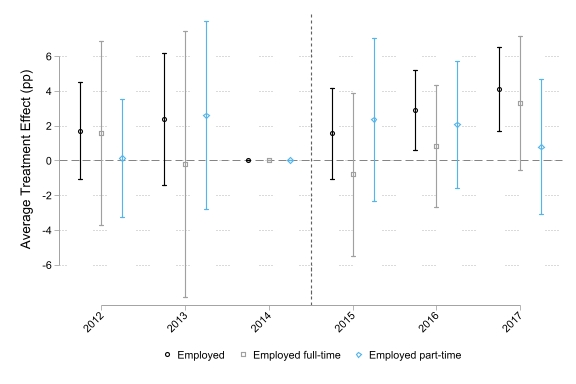
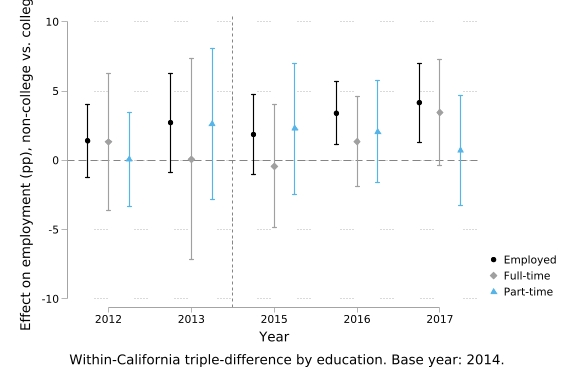
Phase 0 runs: parallel worker Mata fix, HPC scripts, regenerated outputs
Fix: Stata's parallel transfers ado-programs via prog() but not Mata
functions, so every appE worker crashed at ri_compute_pvalues() not
found (r(3499)) after finishing its RI permutations. run_inference_task
now compiles 04_appE_inference_programs.do in each worker session and
fail-fasts if fp_vectorized_bootstrap()/ri_compute_pvalues() are
missing. Battery rerunning as SLURM job 17006108.

Add code/hpc/ stage scripts (stage1: data rebuild + tables; stage2:
fixed appE inference battery) and sbatch wrappers.

Regenerated outputs from today's stage 1 run on the rebuilt working
file: quad-diff tables (employment ~+1.8***, full-time ~-0.1 n.s.,
part-time ~+1.9***), Oster bounds, and education-stratified tables from
the reconstructed 03_tab_main_educ.do (N and pre-period means match the
committed versions exactly; ATE 2.1 vs 1.8 and lower adj. R2 — original
spec likely differed, flagged in PLAN.md as an author decision).

Ignore Stata parallel temp files (__pll*) and code/logs/.

diff --git a/results/tables/tab_main_educ_1.tex b/results/tables/tab_main_educ_1.tex
@@ -1,9 +1,9 @@
 \\ \midrule
 \addlinespace
-ATE                 &         1.8\sym{*}  &         1.7\sym{*}  &         1.5         \\
-                    &       (0.9)         &       (0.9)         &       (1.0)         \\
+ATE                 &         2.1\sym{**} &         2.0\sym{**} &         1.8         \\
+                    &       (1.0)         &       (1.0)         &       (1.1)         \\
 \addlinespace
   Observations      &     132,910         &     132,910         &     132,910         \\
-  Adj. R-Square     &       0.099         &       0.104         &       0.119         \\
+  Adj. R-Square     &       0.063         &       0.069         &       0.086         \\
   Treated group mean in pre-period&        71.6         &        71.6         &        71.6         \\
-  Implied employment effect&      32,852         &      32,421         &      28,004         \\
+  Implied employment effect&      38,329         &      37,558         &      33,311         \\

diff --git a/results/tables/tab_main_educ_2.tex b/results/tables/tab_main_educ_2.tex
@@ -1,9 +1,9 @@
 \\ \midrule
 \addlinespace
-ATE                 &         1.1         &         1.0         &         0.7         \\
+ATE                 &         1.5         &         1.4         &         1.0         \\
                     &       (1.2)         &       (1.2)         &       (1.2)         \\
 \addlinespace
   Observations      &     132,910         &     132,910         &     132,910         \\
-  Adj. R-Square     &       0.084         &       0.090         &       0.118         \\
+  Adj. R-Square     &       0.067         &       0.074         &       0.103         \\
   Treated group mean in pre-period&        51.3         &        51.3         &        51.3         \\
-  Implied employment effect&      20,721         &      19,094         &      12,917         \\
+  Implied employment effect&      27,472         &      25,552         &      19,051         \\

diff --git a/results/tables/tab_main_educ_3.tex b/results/tables/tab_main_educ_3.tex
@@ -1,9 +1,9 @@
 \\ \midrule
 \addlinespace
-ATE                 &         0.7         &         0.7         &         0.8         \\
+ATE                 &         0.6         &         0.6         &         0.8         \\
                     &       (0.9)         &       (0.8)         &       (0.9)         \\
 \addlinespace
   Observations      &     132,910         &     132,910         &     132,910         \\
-  Adj. R-Square     &       0.008         &       0.010         &       0.030         \\
+  Adj. R-Square     &       0.007         &       0.010         &       0.030         \\
   Treated group mean in pre-period&        20.4         &        20.4         &        20.4         \\
-  Implied employment effect&      12,131         &      13,327         &      15,088         \\
+  Implied employment effect&      10,856         &      12,006         &      14,260         \\

diff --git a/results/tables/tab_quad_diff_1.tex b/results/tables/tab_quad_diff_1.tex
@@ -1,0 +1,9 @@
+\\ \midrule
+\addlinespace
+Quadruple-Diff ATE  &         1.8\sym{***}&         1.6\sym{***}\\
+                    &       (0.4)         &       (0.4)         \\
+\addlinespace
+  Observations      &     761,195         &     761,195         \\
+  Adj. R-Square     &       0.063         &       0.078         \\
+  Treated group mean in pre-period&        71.6         &        71.6         \\
+  Implied employment effect&         266         &         232         \\

diff --git a/results/tables/tab_quad_diff_2.tex b/results/tables/tab_quad_diff_2.tex
@@ -1,0 +1,9 @@
+\\ \midrule
+\addlinespace
+Quadruple-Diff ATE  &        -0.1         &        -0.2         \\
+                    &       (0.7)         &       (0.7)         \\
+\addlinespace
+  Observations      &     761,195         &     761,195         \\
+  Adj. R-Square     &       0.079         &       0.103         \\
+  Treated group mean in pre-period&        51.3         &        51.3         \\
+  Implied employment effect&         -12         &         -26         \\

diff --git a/results/tables/tab_quad_diff_3.tex b/results/tables/tab_quad_diff_3.tex
@@ -1,0 +1,9 @@
+\\ \midrule
+\addlinespace
+Quadruple-Diff ATE  &         1.9\sym{***}&         1.8\sym{***}\\
+                    &       (0.6)         &       (0.6)         \\
+\addlinespace
+  Observations      &     761,195         &     761,195         \\
+  Adj. R-Square     &       0.013         &       0.035         \\
+  Treated group mean in pre-period&        20.4         &        20.4         \\
+  Implied employment effect&         277         &         258         \\

diff --git a/results/tables/tab_oster_bounds.tex b/results/tables/tab_oster_bounds.tex
@@ -1,0 +1,5 @@
+Employed &     0.828 &    -0.335 &     0.009 &     0.074 &     -0.10 &    -0.730 &     -0.33 &    -1.653 \\
+Full-time &    -2.223 &    -4.077 &     0.008 &     0.067 &     -0.75 &    -4.705 &     -2.49 &    -6.172 \\
+Part-time &     3.051 &     3.742 &     0.003 &     0.027 &     -1.84 &     3.977 &     -6.14 &     4.525 \\
+\midrule
+Earnings ($) &    -598.8 &   -1509.4 &     0.011 &     0.099 &     -0.56 &   -1817.7 &     -1.87 &   -2536.9 \\

diff --git a/results/tables/tab_quad_diff_earn.tex b/results/tables/tab_quad_diff_earn.tex
@@ -1,0 +1,8 @@
+\\ \midrule
+\addlinespace
+Quadruple-Diff ATE  &      -410.9         &      -256.0         \\
+                    &     (463.7)         &     (416.5)         \\
+\addlinespace
+  Observations      &     761,195         &     761,195         \\
+  Adj. R-Square     &       0.156         &       0.212         \\
+  Treated group mean in pre-period&      21,324         &      21,324         \\

diff --git a/results/tables/tab_quad_diff_end.tex b/results/tables/tab_quad_diff_end.tex
@@ -1,0 +1,3 @@
+\\ \midrule
+  Saturated 3-way FEs&         Yes&         Yes\\
+  Add Demographic Controls&          No&         Yes\\

diff --git a/PLAN.md b/PLAN.md
@@ -214,14 +214,24 @@ Done in this pass (code changes, not yet re-run):
       targets in the file header (ATE 1.8/1.1/0.7; N = 132,910; pre-means
       71.6/51.3/20.4). Must be validated against the committed outputs before trusting.
 
-Blocked on data (not on this server):
+Runs (updated 2026-07-02):
 
-- [ ] Rebuild `data/final/acs_working_file.dta` — requires IPUMS + BLS API keys
-      (`api_codes.txt`) and a TAXSIM-capable Stata (module `Stata/19` is available on
-      the cluster: `module load Stata/19`), or copy the working file from the machine
-      that produced the committed results.
-- [ ] Run `03_tab_quad_diff.do`, `03_tab_oster_bounds.do`, validated
-      `03_tab_main_educ.do`, and the fixed Appendix E battery.
+- [x] Rebuilt `data/final/acs_working_file.dta` on the cluster (IPUMS download +
+      `01_clean_data.do`, Stage 1, `code/hpc/stage1.do`).
+- [x] Ran `03_tab_quad_diff.do` and `03_tab_oster_bounds.do`. Quad-diff:
+      employment ~+1.8***, full-time ~−0.1 (n.s.), part-time ~+1.9*** — the
+      CalEITC-attributable full-time decline essentially disappears after netting
+      out the college trend (plan's back-of-envelope had −2.2; see §C framing).
+- [x] Ran reconstructed `03_tab_main_educ.do`. Partial validation: N (132,910) and
+      pre-period means (71.6/51.3/20.4) match the committed tables exactly, but
+      ATE is 2.1** vs. committed 1.8* and adj. R² is lower (0.063 vs 0.099) — the
+      original spec likely absorbed more (different FEs). See author decision below.
+- [ ] Fixed Appendix E battery: running (SLURM job 17006108, `code/hpc/stage2.do`).
+      First attempt (16996060) crashed: Stata's `parallel` transfers ado-programs
+      via `prog()` but not Mata functions, so every worker died at
+      `ri_compute_pvalues() not found` after its RI permutations. Fixed —
+      `run_inference_task` now compiles `04_appE_inference_programs.do` in each
+      worker and fail-fasts if the Mata functions are missing.
 - [ ] Compare fixed FP/RIWB p-values against the committed
       `results/paper/tab_appE_tab1_*.tex` and update the paper's inference footnote.
 
